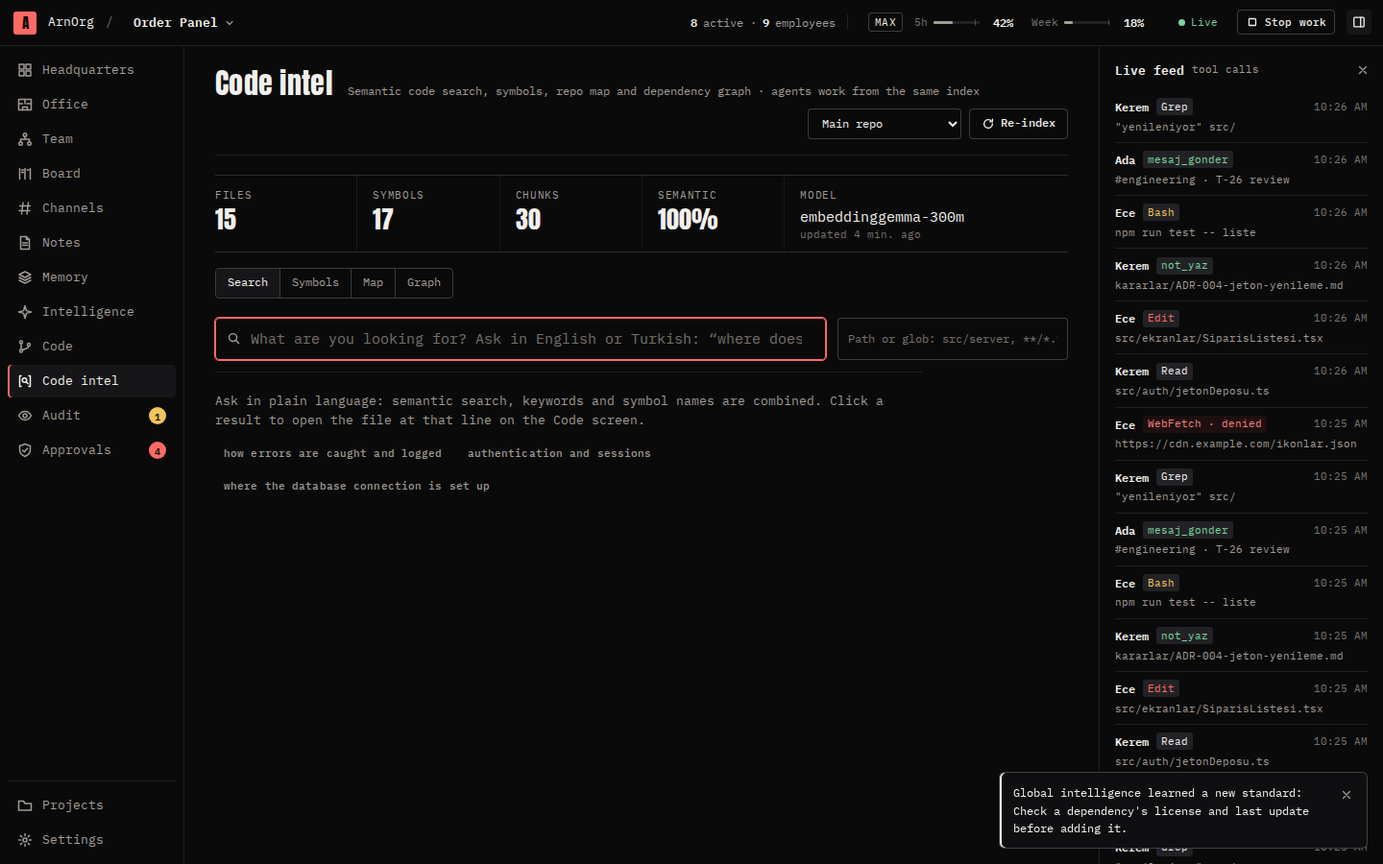
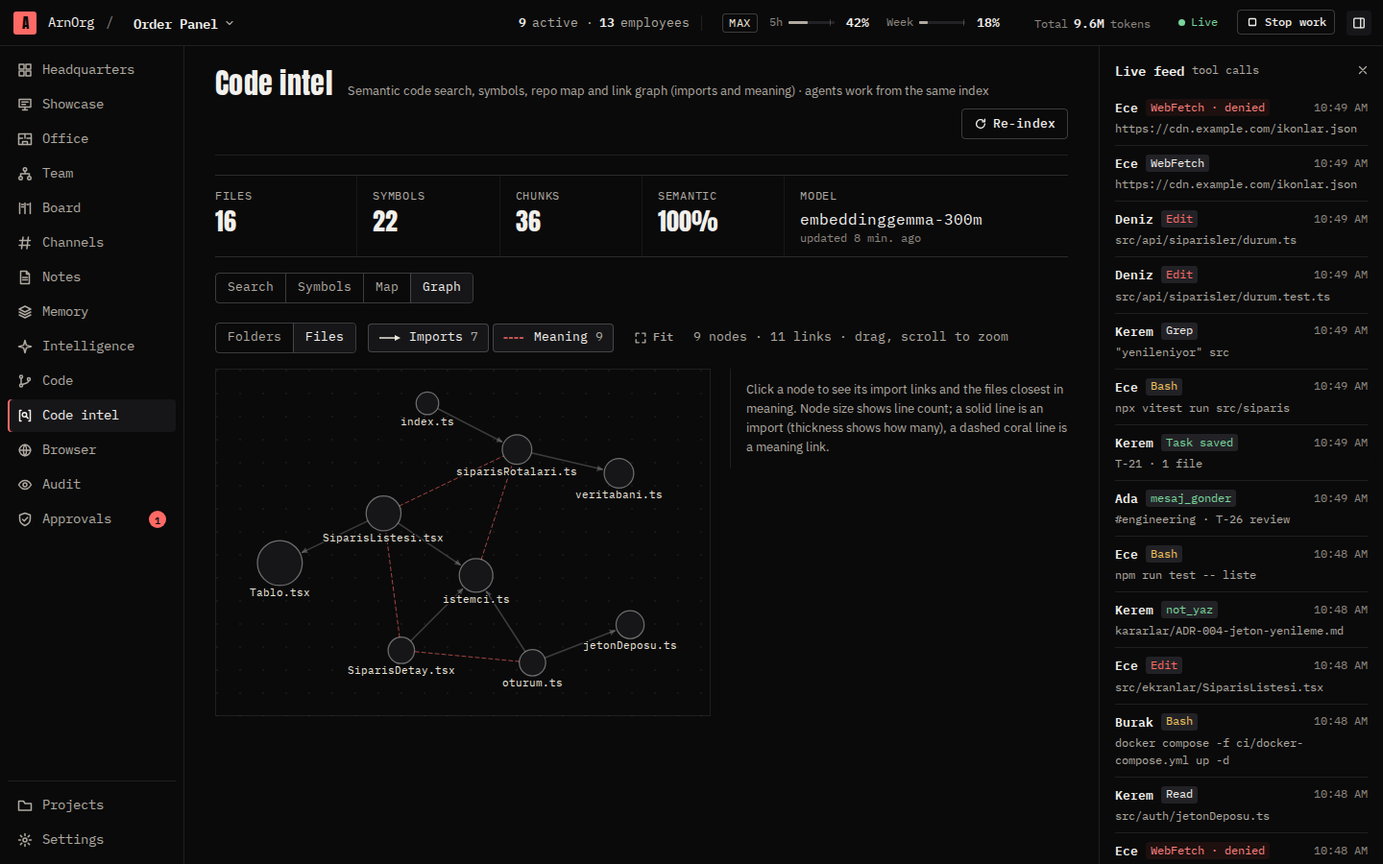
Sürüm 0.0.8
Tek projede ortak çalışma (birleştirme yok), konuşmalarda görsel ve dosya,
seçenekli sorular, skill kütüphanesi, ad ile resim uyumu, Tarayıcı'da proje
adresleri, üst çubukta toplam token, kod zekâsı bağları ve daha canlı bir Ofis.
Sürüm notları docs/surumler/v0.0.8.md. README'lerde yeni maddeler; kalkan
birleştirme ve kişisel çalışma alanı anlatımları çıktı. Yeni ekran görüntüleri
(TR/EN): Ortak çalışma, CEO sohbetinde görsel ve dosya, Tarayıcı ve proje
adresleri, kod zekâsı grafiği.

diff --git a/paketler/ortak/src/index.ts b/paketler/ortak/src/index.ts
@@ -2,7 +2,7 @@
 // Çekirdek (arnorg-server) ile Stüdyo (arayüz) arasında paylaşılan tipler ve sabitler.
 // Bu dosya tek başına durur; başka dosyaya göreli import yapmaz.
 
-export const ARNORG_SURUMU = "0.0.7";
+export const ARNORG_SURUMU = "0.0.8";
 
 // ---------------------------------------------------------------------------
 // Genel

diff --git a/docs/surumler/v0.0.8.md b/docs/surumler/v0.0.8.md
@@ -1,0 +1,153 @@
+ArnOrg runs Claude Code agents like a software company: you open a project and tell the CEO what you want; the CEO agent writes the plan, hires the team, hands out the work, makes the decisions and reports back to you. With this release the whole team works in one project at the same time, and you are never asked about merges again. You can also send images and files in conversations, answer questions by picking options, and every hire comes with skills that fit the role.
+
+[Türkçe aşağıda](#türkçe)
+
+## Download
+
+| System | File | Install |
+|---|---|---|
+| Windows 10/11 · x64 | `ArnOrg-Kurulum-0.0.8-x64.exe` | Recommended. Setup wizard; you can choose the install folder |
+| Windows · x64, managed deployment | `ArnOrg-0.0.8-x64.msi` | For bulk installs (no automatic updates) |
+| Linux · x64, any distribution | `ArnOrg-0.0.8-x86_64.AppImage` | No install: make it executable with `chmod +x` and run it |
+| Debian, Ubuntu · x64 | `ArnOrg-0.0.8-amd64.deb` | `sudo apt install ./ArnOrg-0.0.8-amd64.deb` |
+| Fedora, RHEL, openSUSE · x64 | `ArnOrg-0.0.8-x86_64.rpm` | `sudo dnf install ./ArnOrg-0.0.8-x86_64.rpm` |
+| Linux · arm64 | `ArnOrg-0.0.8-arm64.AppImage`, `ArnOrg-0.0.8-arm64.deb`, `ArnOrg-0.0.8-aarch64.rpm` | Same as x64 |
+
+The `latest*.yml` and `.blockmap` files are for updates; you don't need to download them.
+
+## New in 0.0.8
+
+- **One project, one team, all at once.** The team works in the project itself, on its working branch, at the same time and task by task. There are no personal branches and nothing to merge, so merge approvals are gone:
+  - A file someone is editing stays theirs until their task is saved; nobody else can edit it meanwhile. The refusal says who holds it and for which task, and agents can ask that person directly. Git commands that would touch others' work (staging, stash, reset, switching branches) are refused.
+  - When a task moves to review, or an employee saves their work, ArnOrg commits just that task's files as "T-3 Title" with your git identity.
+  - After every save the project's test command runs in the background in a separate copy. A failing save goes back to its owner with the output, and #general hears when the branch is green again.
+  - The CEO reads each save before marking the task done; a task sent back reaches its owner with the CEO's note.
+  - The CEO sets the team pace, how many people work at once, up to the board's ceiling (now 8 by default). An employee who becomes idle starts their next planned task by themselves, and the CEO hears who has nothing to do. An employee whose turn ends with the task still open is reminded after 3 minutes instead of 20.
+  - **Team** has a Shared work panel: the pace, who is working on what, the files they hold, and the latest saves with their tests, diff and output.
+  - In the Office a save puts a check mark over the person and lights up the server room, and the tests run in the lab; Board cards show **Saved**.
+- **Images and files in conversations.** In the CEO chat and in channels, attach with the paperclip, drag and drop, or paste an image:
+  - Before sending, each attachment shows as a chip with a thumbnail, its size and the upload progress. A message can be attachments alone.
+  - Images appear in the message and open in a viewer (arrow keys, actual size, download). Files show as cards you can open or download.
+  - Agents see the images you send and read your files, and share their own with a new tool: screenshots, test reports, documents.
+  - Files are recognised by their content: programs and archives are refused, SVG and HTML are only downloaded as text. Attachments live in the project's `.arnorg/ekler` folder and are never committed. Up to 10 MB per file and 10 files per message.
+- **Answer by choosing.** When an agent asks you something with options, the options appear under the message: one choice gets radio buttons (a drop-down past six options), several get checkboxes, with an optional note and **Send**. Once answered, your choice shows under the question and locks. An agent's question that ends in a numbered list gets an **Answer by choosing** button that turns the list into checkboxes. Questions that reach Approvals can be answered by picking an option there or in the pop-up. Everything works from the keyboard.
+- **Skills for every hire.** ArnOrg ships a library of 37 Claude Code skills chosen from the aitmpl.com catalogue and their source repositories, all MIT or Apache-2.0:
+  - debugging, testing, code review, API and database design, architecture, accessibility, interface design, security, CI/CD, writing, research and marketing;
+  - when the CEO hires, they give the new employee the skills that fit the role; every role starts with sensible defaults;
+  - you can change them in the hire form and on the employee's page;
+  - skills load only into that employee's sessions; nothing is written to your repository;
+  - skills that need paid services, API keys or their own MCP servers, push or commit on their own, or come with a restrictive license were left out.
+- **Names and faces match.** A new hire gets a character that fits their name. Existing employees whose picture didn't fit their name move once to a fitting character; only the picture changes. The hire form lists the characters that fit the name first.
+- **Project addresses in the Browser.** The Browser's right panel is split in two: your project's running addresses on top, notes below.
+  - Agents keep the list current: they add an address when they start a server and remove it when they stop it. ArnOrg also picks up lines like `Local: http://localhost:5173` from command output.
+  - Local addresses are checked every 20 seconds and show whether they're up; click one to open it.
+  - With no addresses, the section doesn't show.
+- **Total tokens in the top bar.** Next to the usage meters, the tokens spent by all employees on the open project, updated live; the tooltip shows today's.
+- **Code intelligence draws its links.** In many projects the graph showed no links. Now:
+  - imports are found in HTML and template files (script, link, `@import`, include, render; EJS, Handlebars, Nunjucks), through tsconfig/jsconfig paths, package.json imports and Vite/webpack aliases, with Windows paths and UTF-16 files;
+  - **meaning links** join files about the same thing, found from their embeddings and drawn dashed; import links are solid arrows;
+  - the legend switches each kind on and off, hovering a file highlights its neighbours, and the side panel lists the files closest in meaning; small projects open file by file;
+  - agents get a **related files** tool that lists a file's import and meaning neighbours with the reason.
+- **A livelier, calmer Office.** Every movement stands for something that really happened:
+  - an agent who asks a teammate walks to their desk and waits for the answer;
+  - an employee waiting for the CEO's decision waits at the CEO's desk; the CEO says "Approved." or "Declined.", they nod and go back;
+  - idle employees sit at their desks and now and then take a short break: coffee, water or their favourite spot;
+  - typing follows the work, faster when editing than when reading;
+  - a saved task puts a check mark above the person and their monitor, and **Saved** on its Board card;
+  - click a person for a card with their status and current task, **Follow**, **Message** and **Details**.
+- **Board.** Filter by person or role; the filter is remembered per project. Cards slide between columns, counters count up, lists and pop-ups ease in and out, and a skeleton shows while tasks load. Motion is short and turns off with reduced motion.
+- **Shortcuts.** Press `?` for the Office and Board shortcuts.
+
+## Requirements
+
+- **A Claude subscription** (Pro, Max or Team). ArnOrg only works with a subscription; it doesn't use API keys.
+- The first-run assistant takes care of the Claude Code sign-in, git and the GitHub CLI. On Windows, Git for Windows is recommended.
+
+## Good to know
+
+- **After updating,** each project's old personal workspaces and branches are brought into the shared project once. Branches that merge cleanly go into the working branch and clean workspaces are removed. A workspace with uncommitted changes, a branch that conflicts, or one holding git-ignored files that can't be rebuilt (such as `.env.local`) is kept as it is and listed in #general and on **Team**; no work is deleted. Pending merge approvals are closed.
+- If you hadn't changed it, **Settings → Work rules → Agents working at once** goes from 3 to 8.
+- ArnOrg starts planned work by itself only in projects that are active. Projects you haven't worked on for a while stay asleep after the update.
+- **Stop work**, and stopping an employee, hold until you write to the team or start someone again; ArnOrg doesn't restart their work by itself.
+- **Updating from 0.0.6 or 0.0.7** happens by itself. **From 0.0.5,** download and install this version once from the [Releases](https://github.com/fyildirim-debug/ArnOrg/releases) page; your projects, settings and sign-ins are kept.
+- The installers are unsigned. On the Windows SmartScreen prompt choose **More info → Run anyway**.
+- The AppImage needs FUSE 2 (Ubuntu 24.04: `sudo apt install libfuse2t64`).
+- Data: `%APPDATA%\ArnOrg` on Windows, `~/.config/ArnOrg` on Linux. Uninstalling doesn't remove user data.
+
+---
+
+## Türkçe
+
+ArnOrg, Claude Code ajanlarını bir yazılım şirketi gibi çalıştırır: projeyi siz açar, ne istediğinizi CEO'ya anlatırsınız; CEO ajanı planı yazar, ekibi işe alır, işi dağıtır, kararları verir ve size rapor verir. Bu sürümle bütün ekip tek projede, aynı anda çalışır; birleştirme size bir daha hiç sorulmaz. Konuşmalarda görsel ve dosya gönderebilir, soruları seçerek yanıtlayabilirsiniz; her işe alım rolüne uyan skillerle gelir.
+
+### İndirme
+
+| Sistem | Dosya | Kurulum |
+|---|---|---|
+| Windows 10/11 · x64 | `ArnOrg-Kurulum-0.0.8-x64.exe` | Önerilen. Kurulum sihirbazı; kurulum dizini seçilebilir |
+| Windows · x64, kurumsal dağıtım | `ArnOrg-0.0.8-x64.msi` | Toplu kurulum için (otomatik güncelleme yok) |
+| Linux · x64, her dağıtım | `ArnOrg-0.0.8-x86_64.AppImage` | Kurulumsuz: `chmod +x` ile çalıştırılabilir yapıp açın |
+| Debian, Ubuntu · x64 | `ArnOrg-0.0.8-amd64.deb` | `sudo apt install ./ArnOrg-0.0.8-amd64.deb` |
+| Fedora, RHEL, openSUSE · x64 | `ArnOrg-0.0.8-x86_64.rpm` | `sudo dnf install ./ArnOrg-0.0.8-x86_64.rpm` |
+| Linux · arm64 | `ArnOrg-0.0.8-arm64.AppImage`, `ArnOrg-0.0.8-arm64.deb`, `ArnOrg-0.0.8-aarch64.rpm` | x64 ile aynı |
+
+`latest*.yml` ve `.blockmap` dosyaları güncelleme içindir, indirmeniz gerekmez.
+
+### 0.0.8'de yeni
+
+- **Tek proje, tek ekip, hep birlikte.** Ekip projenin kendisinde, çalışma dalında, aynı anda ve görev görev çalışır. Kişisel dal yok, birleştirilecek bir şey yok; bu yüzden birleştirme onayı da yok:
+  - Birinin düzenlediği dosya, görevi kaydedilene dek onundur; bu sürede başkası düzenleyemez. Ret mesajı dosyanın kimde ve hangi görevde olduğunu söyler, ajanlar o kişiye doğrudan sorabilir. Başkasının işine dokunacak git komutları (aşamaya alma, stash, reset, dal değiştirme) reddedilir.
+  - Görev incelemeye geçince ya da çalışan işini kaydedince ArnOrg yalnız o görevin dosyalarını sizin git kimliğinizle "T-3 Başlık" olarak commit'ler.
+  - Her kayıttan sonra projenin test komutu ayrı bir kopyada arka planda koşar. Geçmeyen kayıt çıktısıyla sahibine döner; dal yeniden yeşillenince #genel'e duyurulur.
+  - CEO görevi tamamlamadan önce kaydını okur; geri gönderdiği görev sahibine CEO'nun notuyla gider.
+  - Ekip temposunu, yani aynı anda kaç kişinin çalışacağını kurulun üst sınırı içinde (artık varsayılan 8) CEO belirler. Boşa çıkan çalışan sıradaki planlı işine kendiliğinden başlar; işi olmayanlar CEO'ya söylenir. Turu bitip görevi açık kalan çalışana 20 değil 3 dakikada hatırlatılır.
+  - **Ekip**'te Ortak çalışma paneli: tempo, kimin ne üzerinde çalıştığı, tuttuğu dosyalar, son kayıtlar ve testleri, farkı ve çıktısı.
+  - Ofis'te kayıt anında kişinin üstünde onay işareti çıkar, sunucu odası yanar, testler laboratuvarda koşar; Pano kartında **Kaydedildi** görünür.
+- **Konuşmalarda görsel ve dosya.** CEO sohbetinde ve kanallarda ataç düğmesiyle, sürükle-bırakla ya da görsel yapıştırarak ekleyin:
+  - Göndermeden önce her ek küçük resmi, boyutu ve yükleme ilerlemesiyle bir çip olarak görünür. Mesaj yalnız eklerden oluşabilir.
+  - Görseller mesajın içinde görünür ve bir görüntüleyicide açılır (ok tuşları, gerçek boyut, indirme). Dosyalar açılıp indirilebilen kartlardır.
+  - Ajanlar gönderdiğiniz görselleri görür, dosyaları okur; kendileri de yeni bir araçla paylaşır: ekran görüntüleri, test raporları, belgeler.
+  - Dosyalar içeriğinden tanınır: programlar ve arşivler reddedilir, SVG ve HTML yalnız metin olarak indirilir. Ekler projenin `.arnorg/ekler` klasöründe durur, hiç commit'lenmez. Dosya başına 10 MB, mesaj başına 10 dosya.
+- **Seçerek yanıtlayın.** Bir ajan size seçenekli bir soru sorduğunda seçenekler mesajın altında çıkar: tek seçimde seçim düğmeleri (altıdan çok seçenekte açılır liste), çoklu seçimde işaret kutuları, isteğe bağlı bir not ve **Gönder**. Yanıtladığınızda seçiminiz sorunun altında görünür ve kilitlenir. Numaralı bir listeyle biten soruların yanında **Seçerek yanıtla** düğmesi çıkar; liste işaret kutularına dönüşür. Onaylar'a düşen soruları da orada ya da açılır pencerede bir seçenek seçerek yanıtlayabilirsiniz. Hepsi klavyeyle de kullanılır.
+- **Her işe alıma skill.** ArnOrg, aitmpl.com kataloğundan ve kaynak depolarından seçilmiş 37 Claude Code skilliyle gelir; hepsi MIT ya da Apache-2.0 lisanslıdır:
+  - hata ayıklama, test, kod incelemesi, API ve veritabanı tasarımı, mimari, erişilebilirlik, arayüz tasarımı, güvenlik, CI/CD, yazım, araştırma ve pazarlama;
+  - CEO işe alırken yeni çalışana rolüne uyan skilleri verir; her rol makul varsayılanlarla başlar;
+  - skilleri işe alım formunda ve çalışanın sayfasında değiştirebilirsiniz;
+  - skiller yalnız o çalışanın oturumlarına yüklenir; deponuza hiçbir şey yazılmaz;
+  - ücretli servis, API anahtarı ya da kendi MCP sunucusunu isteyen, kendi başına push ya da commit eden veya kısıtlayıcı lisansla gelen skiller alınmadı.
+- **Ad ile resim uyuşur.** Yeni çalışan adına uyan bir karakter alır. Adıyla resmi uyuşmayan çalışanlar bir kez uygun bir karaktere geçer; yalnız resim değişir. İşe alım formu ada uyan karakterleri önce gösterir.
+- **Tarayıcı'da proje adresleri.** Tarayıcı'nın sağ paneli ikiye bölündü: üstte projenin çalışan adresleri, altta notlar.
+  - Listeyi ajanlar güncel tutar: bir sunucu başlatınca adresini ekler, durdurunca kaldırır. ArnOrg da komut çıktısındaki `Local: http://localhost:5173` gibi satırları kendisi yakalar.
+  - Yerel adresler 20 saniyede bir yoklanır ve açık olup olmadıkları görünür; tıklayınca açılır.
+  - Adres yoksa bölüm hiç görünmez.
+- **Üst çubukta toplam token.** Kullanım ölçerlerinin yanında, açık projede bütün çalışanların harcadığı token canlı görünür; ipucunda bugünkü yazar.
+- **Kod zekâsı bağlarını çiziyor.** Birçok projede grafikte hiç bağ çıkmıyordu. Artık:
+  - içe aktarmalar HTML ve şablon dosyalarında (script, link, `@import`, include, render; EJS, Handlebars, Nunjucks), tsconfig/jsconfig paths, package.json imports ve Vite/webpack takma adlarıyla, Windows yolları ve UTF-16 dosyalarla birlikte bulunur;
+  - **anlam bağları** aynı konudaki dosyaları gömmelerinden bulup kesik çizgiyle birleştirir; içe aktarma bağları düz oklardır;
+  - açıklama her bağ türünü açıp kapatır, bir dosyanın üzerine gelince komşuları öne çıkar, yan panel anlamca en yakın dosyaları listeler; küçük projeler dosya dosya açılır;
+  - ajanlara **ilgili dosyalar** aracı geldi: bir dosyanın içe aktarma ve anlam komşularını nedeniyle listeler.
+- **Daha canlı, daha sakin bir Ofis.** Her hareket gerçekten olan bir şeyi gösterir:
+  - bir ekip arkadaşına soru soran ajan onun masasına yürür ve yanıtı bekler;
+  - CEO'nun kararını bekleyen çalışan CEO'nun masasında bekler; CEO "Onayladım." ya da "Reddettim." der, çalışan başını sallayıp döner;
+  - boştaki çalışan masasında oturur, arada kısa bir mola verir: kahve, su ya da sevdiği yer;
+  - yazma temposu işi izler: düzenlerken okurken olduğundan hızlı yazar;
+  - kaydedilen görev kişinin ve monitörünün üstünde bir onay işareti, Pano kartında **Kaydedildi** bırakır;
+  - bir kişiye tıklayınca durumunu ve şu anki işini gösteren, **Takip et**, **Mesaj** ve **Ayrıntılar** içeren bir kart açılır.
+- **Pano.** Kişiye ya da role göre süzün; süzgeç proje başına hatırlanır. Kartlar sütunlar arasında kayar, sayaçlar sayarak değişir, listeler ve açılır pencereler yumuşakça girip çıkar, görevler yüklenirken iskelet görünür. Hareketler kısadır ve hareket azaltma açıksa kapanır.
+- **Kısayollar.** Ofis ve Pano kısayolları için `?` tuşuna basın.
+
+### Gerekenler
+
+- **Claude aboneliği** (Pro, Max ya da Team). ArnOrg yalnız abonelikle çalışır; API anahtarı kullanmaz.
+- Claude Code girişini, git'i ve GitHub CLI'ı ilk açılış asistanı halleder. Windows'ta Git for Windows önerilir.
+
+### Bilinmesi gerekenler
+
+- **Güncellemeden sonra** her projenin eski kişisel çalışma alanları ve dalları bir kez ortak projeye alınır. Temiz birleşen dallar çalışma dalına girer, temiz çalışma alanları kaldırılır. Commit'lenmemiş değişikliği olan, çakışan ya da yeniden üretilemeyen ve git'in yok saydığı dosyalar (ör. `.env.local`) içeren alan olduğu gibi korunur, #genel'de ve **Ekip**'te listelenir; hiçbir iş silinmez. Bekleyen birleştirme onayları kapanır.
+- Değiştirmediyseniz **Ayarlar → Çalışma düzeni → Aynı anda çalışan ajan** 3'ten 8'e çıkar.
+- ArnOrg planlı işi kendiliğinden yalnız etkin projelerde başlatır. Bir süredir çalışmadığınız projeler güncellemeden sonra uykuda kalır.
+- **Mesaiyi durdur** ve bir çalışanı durdurmak, ekibe yeniden yazana ya da birini başlatana dek geçerlidir; ArnOrg işlerini kendiliğinden yeniden başlatmaz.
+- **0.0.6 ya da 0.0.7'den güncelleme** kendiliğinden olur. **0.0.5'ten** bu sürümü [Sürümler](https://github.com/fyildirim-debug/ArnOrg/releases) sayfasından bir kez indirip kurun; projeleriniz, ayarlarınız ve girişleriniz korunur.
+- Kurulum dosyaları imzasızdır. Windows SmartScreen uyarısında **Ek bilgi → Yine de çalıştır** seçin.
+- AppImage için FUSE 2 gerekir (Ubuntu 24.04: `sudo apt install libfuse2t64`).
+- Veriler: Windows'ta `%APPDATA%\ArnOrg`, Linux'ta `~/.config/ArnOrg`. Kaldırma kullanıcı verisini silmez.

diff --git a/README.tr.md b/README.tr.md
@@ -2,7 +2,7 @@
 
 [English](README.md) · **Türkçe**
 
-Claude Code ajanlarından kurulan bir yazılım şirketi. Projeyi siz açar, ne istediğinizi CEO'ya anlatırsınız; CEO ajanı planı yazar, ekibi işe alır, işi dağıtır, kararları verir ve size rapor verir. Her ajanın her araç çağrısı ArnOrg'un denetiminden geçer.
+Claude Code ajanlarından kurulan bir yazılım şirketi. Projeyi siz açar, ne istediğinizi CEO'ya anlatırsınız; CEO ajanı planı yazar, ekibi işe alır, işi dağıtır, kararları verir ve size rapor verir. Bütün ekip projenin kendisinde, aynı anda ve görev görev çalışır. Her ajanın her araç çağrısı ArnOrg'un denetiminden geçer.
 
 ![Karargâh](docs/gorseller/tr/karargah.png)
 
@@ -10,7 +10,7 @@ Claude Code ajanlarından kurulan bir yazılım şirketi. Projeyi siz açar, ne 
 
 - **Windows ve Linux'ta masaüstü uygulaması**, ayrıca sunucu modu.
 - **Açık kaynak**, [MIT lisansıyla](LICENSE). Masaüstü uygulaması kendini bu deponun sürümlerinden günceller.
-- **Claude aboneliğinizle çalışır** (Pro, Max ya da Team). Ajanlar makinedeki Claude Code girişini kullanır; ArnOrg onlara API anahtarı vermez. Üst çubukta 5 saatlik ve haftalık pencere kullanımı görünür. Ajanlar kurulun belirlediği yüzdede durur, pencere açılınca kaldıkları yerden sürer.
+- **Claude aboneliğinizle çalışır** (Pro, Max ya da Team). Ajanlar makinedeki Claude Code girişini kullanır; ArnOrg onlara API anahtarı vermez. Üst çubukta 5 saatlik ve haftalık pencere kullanımı ile açık projede ekibin harcadığı token görünür. Ajanlar kurulun belirlediği yüzdede durur, pencere açılınca kaldıkları yerden sürer.
 - **Yönlendirmeli ilk açılış.** Kurulum asistanı sizi adım adım götürür:
   - Claude Code kurulumu ve girişi (tarayıcıdan giriş; istenirse kodu yapıştırma);
   - git ve git kimliğiniz;
@@ -40,19 +40,27 @@ Claude Code ajanlarından kurulan bir yazılım şirketi. Projeyi siz açar, ne 
   - Her ajan, rolü ve yetkisi kapsamındaki kuralları alır.
   - Her kuralı görebilir, düzenleyebilir ya da kapatabilirsiniz.
 - **Karargâh.** #yonetim'de CEO ile bire bir sohbet; yazıyor göstergesi ve tıklanabilir bağlantılarla canlı kanallar. #genel, işin başladığını, incelemeye girdiğini ve bittiğini duyurur.
-- **CEO karar verir, siz sonucu görürsünüz.** Varsayılan olarak şirket tam otonom çalışır. İzinler, birleştirmeler, işe alımlar ve öteki onaylar CEO'dan geçer; her karar gerekçesiyle listelenir. CEO size yalnız bir insanın yapması gerekenler için gelir: giriş bilgileri, ödemeler, dış hesaplar. Bekleyen bir onaya isterseniz kendiniz karar verirsiniz ya da projeyi ayarlarından **Kurul karar verir** kipine döndürürsünüz.
+- **CEO karar verir, siz sonucu görürsünüz.** Varsayılan olarak şirket tam otonom çalışır. İzinler, işe alımlar ve öteki onaylar CEO'dan geçer; her karar gerekçesiyle listelenir. CEO size yalnız bir insanın yapması gerekenler için gelir: giriş bilgileri, ödemeler, dış hesaplar. Bekleyen bir onaya isterseniz kendiniz karar verirsiniz ya da projeyi ayarlarından **Kurul karar verir** kipine döndürürsünüz.
+- **Tek proje, tek ekip, hep birlikte.** Herkes projenin kendisinde, çalışma dalında, aynı anda ve görev görev çalışır. Kişisel dal yok, birleştirilecek bir şey yok; bu yüzden birleştirme hiç sorulmaz:
+  - birinin düzenlediği dosya görevi kaydedilene dek onundur; bu sürede başkası düzenleyemez, başkasının işine dokunacak git komutları reddedilir;
+  - görev incelemeye geçince ArnOrg yalnız o görevin dosyalarını sizin git kimliğinizle "T-3 Başlık" olarak commit'ler; testler arka planda koşar, geçmeyen kayıt çıktısıyla sahibine döner;
+  - aynı anda kaç kişinin çalışacağına kurulun üst sınırı içinde (varsayılan 8) CEO karar verir; boşa çıkan çalışan sıradaki işine kendiliğinden başlar, işi olmayanlar CEO'ya söylenir;
+  - **Ekip** kimin ne üzerinde çalıştığını, tuttuğu dosyaları, tempoyu ve son kayıtları test sonuçlarıyla gösterir.
+- **Konuşmalarda görsel ve dosya.** CEO sohbetinde ve kanallarda görsel ve dosya ekleyin: ataç düğmesi, sürükle-bırak ya da yapıştır. Ajanlar görselleri görür, dosyaları okur ve kendileri de paylaşır (ekran görüntüleri, raporlar, belgeler). Görseller bir görüntüleyicide açılır; dosyalar açılıp indirilebilen kartlar olarak görünür.
+- **Seçerek yanıtlayın.** Bir ajan size seçenekli bir soru sorduğunda seçenekleri mesajın altında işaretlersiniz: tek ya da çoklu seçim, isteğe bağlı bir notla.
+- **Her işe alıma skill.** aitmpl.com kataloğundan seçilmiş 37 Claude Code skilli (MIT ya da Apache-2.0): hata ayıklama, test, kod incelemesi, API ve veritabanı tasarımı, mimari, erişilebilirlik, arayüz tasarımı, güvenlik, CI/CD, yazım, araştırma ve pazarlama. CEO her yeni çalışana rolüne uyan skilleri verir; işe alım formunda ve çalışanın sayfasında değiştirebilirsiniz.
 - **Onaylar.**
-  - Onay türleri: işe alım, işten çıkarma, main'e birleştirme, ana yasa değişikliği, araç izni ve teslim.
+  - Onay türleri: işe alım, işten çıkarma, ana yasa değişikliği, araç izni, karar (sorular ve token tavanları) ve teslim.
   - Her onay gerekçesini, kimin karar verdiğini ve onaylanırsa ne olacağını gösterir.
   - Kurul karar verirken **Otomatik onay** kutusu, seçtiğiniz türlerle sınırlı olarak onayı sizin yerinize verir.
 - **Tanıtım.** Projenin README.md'si menünün ikinci sırasında kendi sayfasında. Tanıtım uzmanı onu ekibin gerçekten yaptıklarından yazar ve her teslimden sonra günceller; birleşene kadar taslak görünür. **Güncellenmesini iste** yenilenmesini ister.
-- **Girmeden önce test.** Onaylanan birleştirmeler proje başına bir kuyruktan ve kalite kapısından geçer: dal ayrı bir çalışma alanında birleştirilir ve projenin test komutu koşar. Yalnız testleri geçen iş dalınıza girer; onay kartı test çıktısını ve farkı gösterir.
+- **Girerken test.** Her görev kaydından sonra projenin test komutu ayrı bir kopyada koşar. Geçmeyen kayıt çıktısıyla sahibine döner; dal yeniden yeşillenince #genel'e duyurulur.
 - **Sınırlarınız içinde çalışma.** Aynı anda çalışan ajan sayısına tavan, görev başına token tavanı; ArnOrg yeniden açılınca ajanlar kaldıkları yerden sürer.
 - **Araştıran ajanlar.** SearXNG gibi yerleşik bir meta arama Bing, DuckDuckGo, Brave, Wikipedia, Stack Overflow, GitHub, npm, MDN, Hacker News, arXiv ve diğerlerini aynı anda sorgular. r.jina.ai gibi yerleşik bir okuyucu web sayfalarını, PDF'leri ve JSON'u temiz Markdown'a çevirir. Ajanlar bulduklarını kaynaklı araştırma notu olarak kaydeder. Her çalışanın yetenekleri açılıp kapanır; Araştırmacı rolü işe alınmaya hazırdır.
 - **İstediğinizde brifing.** **Brifing ver**, CEO'ya ne yapıldığını, ne olduğunu ve sırada ne olduğunu görev kodlarıyla yazdırır. Her gün seçtiğiniz saatte de brifing gelir.
 - **Kendi kanallarınız.** Kanal kurun, çalışanları ekleyin ve siz **Durdur** diyene kadar sırayla, serbestçe konuşsunlar.
-- **Olmayan yeri gösterin.** Masaüstü uygulamasının tarayıcısında projenizin sayfasından bir öğe seçip not bırakın; not ekran görüntüsünü saklar. **Hepsini yaptır** bütün notları CEO'ya gönderir, CEO onları göreve çevirir.
-- **Ofis canlanıyor.** Kata bir kütüphane, bir laboratuvar ve bir stüdyo eklendi: ajanlar araştırmak için kütüphaneye, test koşmak için laboratuvara, işini sunmak için stüdyoya yürür. Konuşma balonları, kutlamalar, canlı yayın kamerası ve olay şeridiyle izlemesi keyifli.
+- **Olmayan yeri gösterin.** Masaüstü uygulamasının tarayıcısında projenizin sayfasından bir öğe seçip not bırakın; not ekran görüntüsünü saklar. **Hepsini yaptır** bütün notları CEO'ya gönderir, CEO onları göreve çevirir. Tarayıcı projenin çalışan adreslerini de listeler; listeyi ajanlar güncel tutar, tıklayınca açılır.
+- **Ofis canlanıyor.** Kata bir kütüphane, bir laboratuvar ve bir stüdyo eklendi: ajanlar araştırmak için kütüphaneye, test koşmak için laboratuvara, işini sunmak için stüdyoya yürür. Bir ekip arkadaşına sormak için masasına gider, karar için CEO'nun masasında bekler, arada kısa mola verir. Bir kişiye tıklayınca ne yaptığını gösteren kart açılır. Konuşma balonları, kutlamalar, canlı yayın kamerası ve olay şeridiyle izlemesi keyifli.
 - **Model sürümleri ve Fable.** Modeller Claude Code'dan okunan sürümleriyle görünür (Fable 5.1, Opus 5.5, Sonnet 5.5, Haiku 4.5); yeni CEO'lar Fable kullanır.
 - **Kendini günceller:** bu deponun sürümlerinden.
 - **Önemli anlar her ekranda.** Hangi ekranda olursanız olun açılır pencere gelir. Pencere arkadaysa masaüstü bildirimi de gelir ve görev çubuğu yanıp söner.
@@ -60,11 +68,10 @@ Claude Code ajanlarından kurulan bir yazılım şirketi. Projeyi siz açar, ne 
 - **Teslim.** Proje bitince CEO test adımları, çalıştırma komutu ve adresle teslim eder. Geri bildiriminiz CEO'ya iş olarak döner.
 - **0.0.1'den gelenler:**
   - `.arnorg/` altında proje hafızası;
-  - her ajana ayrı git çalışma alanı; main'e yalnız onaylanıp kalite kapısını geçen iş girer;
   - kurallar, araya girme ve kesmeyle canlı denetim;
   - Ofis: şirketin canlı 2D hâli;
   - yerleşik VS Code tezgâhı;
-  - makinede çalışan kod zekâsı;
+  - makinede çalışan kod zekâsı; içe aktarmaların ve anlamca birbirine yakın dosyaların grafiğiyle;
   - tıkanma koruması ve dönem raporu.
 
   Ajan commit'leri sizin git kimliğinizle atılır; Claude imzası eklenmez.
@@ -76,12 +83,15 @@ Claude Code ajanlarından kurulan bir yazılım şirketi. Projeyi siz açar, ne 
 |---|---|
 | İlk açılış | ![İlk açılış](docs/gorseller/tr/ilk-kurulum.png) |
 | Ofis | ![Ofis](docs/gorseller/tr/ofis.png) |
+| Ortak çalışma | ![Ortak çalışma](docs/gorseller/tr/ortak-calisma.png) |
+| CEO sohbetinde görsel ve dosya | ![Görsel ve dosya](docs/gorseller/tr/ekler.png) |
 | Kanallar | ![Kanallar](docs/gorseller/tr/kanallar.png) |
 | Tanıtım | ![Tanıtım](docs/gorseller/tr/tanitim.png) |
 | Onaylar | ![Onaylar](docs/gorseller/tr/onaylar.png) |
 | Zekâ | ![Zekâ](docs/gorseller/tr/zeka.png) |
 | GitHub'dan aç | ![GitHub'dan aç](docs/gorseller/tr/github.png) |
 | Ekip ve ajan paneli | ![Ekip](docs/gorseller/tr/ekip.png) |
+| Tarayıcı ve proje adresleri | ![Tarayıcı](docs/gorseller/tr/tarayici.png) |
 | Kod zekâsı | ![Kod zekâsı](docs/gorseller/tr/kod-zekasi.png) |
 | Kod (VS Code tezgâhı) | ![Kod](docs/gorseller/tr/kod.png) |
 
@@ -121,13 +131,13 @@ Sürüm paketleri GitHub Actions'ta Windows ve Linux için üretilir ve GitHub s
 Sürüm çıkarma (sürüm notları [`docs/surumler/`](docs/surumler) altında):
 
 ```bash
-npm run surum -- 0.0.7                 # kök ve tüm paketler, kilit dosyası, ARNORG_SURUMU
-# docs/surumler/v0.0.7.md dosyasına sürüm notlarını yazın, commit edin
-git tag -a v0.0.7 -m "ArnOrg 0.0.7"
-git push origin main v0.0.7            # surum.yml paketleri üretir ve sürümü yayınlar
+npm run surum -- 0.0.8                 # kök ve tüm paketler, kilit dosyası, ARNORG_SURUMU
+# docs/surumler/v0.0.8.md dosyasına sürüm notlarını yazın, commit edin
+git tag -a v0.0.8 -m "ArnOrg 0.0.8"
+git push origin main v0.0.8            # surum.yml paketleri üretir ve sürümü yayınlar
 ```
 
-Etiket göndermek yerine GitHub'da **Actions → Sürüm → Run workflow** ile `surum` alanına `v0.0.7` yazılabilir; etiket main'in son commit'ine konur. Etiket paket sürümleriyle uyuşmazsa ya da sürüm notları yoksa iş akışı paketlemeye başlamadan durur.
+Etiket göndermek yerine GitHub'da **Actions → Sürüm → Run workflow** ile `surum` alanına `v0.0.8` yazılabilir; etiket main'in son commit'ine konur. Etiket paket sürümleriyle uyuşmazsa ya da sürüm notları yoksa iş akışı paketlemeye başlamadan durur.
 
 İş akışı sürümü bu depoda yayınlar; kurulu uygulamalar da güncellemeyi burada arar. `WIN_IMZA` Actions değişkeni ve imza sağlayıcısının sırları tanımlıysa Windows paketleri imzalanır (SSL.com eSigner, DigiCert KeyLocker ya da başka bir araç); değilse imzasız yayınlanır.
 

diff --git a/README.md b/README.md
@@ -2,7 +2,7 @@
 
 **English** · [Türkçe](README.tr.md)
 
-A software company built from Claude Code agents. You open a project and tell the CEO what you want; the CEO agent writes the plan, hires the team, hands out the work, makes the decisions and reports back to you. Every tool call of every agent passes through ArnOrg's gate.
+A software company built from Claude Code agents. You open a project and tell the CEO what you want; the CEO agent writes the plan, hires the team, hands out the work, makes the decisions and reports back to you. The whole team works in the project itself, at the same time, task by task. Every tool call of every agent passes through ArnOrg's gate.
 
 ![Headquarters](docs/gorseller/en/karargah.png)
 
@@ -10,7 +10,7 @@ A software company built from Claude Code agents. You open a project and tell th
 
 - **Desktop app for Windows and Linux**, plus a server mode.
 - **Open source** under the [MIT license](LICENSE). The desktop app updates itself from this repository's releases.
-- **Runs on your Claude subscription** (Pro, Max or Team). Agents use the Claude Code sign-in on your machine; ArnOrg never hands them an API key. The top bar shows the 5-hour and weekly window usage. Agents pause at the threshold the board sets and pick up where they left off when the window reopens.
+- **Runs on your Claude subscription** (Pro, Max or Team). Agents use the Claude Code sign-in on your machine; ArnOrg never hands them an API key. The top bar shows the 5-hour and weekly window usage and the tokens the open project's team has spent. Agents pause at the threshold the board sets and pick up where they left off when the window reopens.
 - **Guided first run.** A setup assistant walks you through:
   - installing and signing in to Claude Code (browser sign-in, paste the code back if asked);
   - git and your git identity;
@@ -40,19 +40,27 @@ A software company built from Claude Code agents. You open a project and tell th
   - Each agent receives the rules within its role and authority.
   - You can review, edit or switch off any rule.
 - **Headquarters.** A one-to-one chat with the CEO in #ceo and live channels with typing indicators and clickable links. #general announces when work starts, goes to review and finishes.
-- **The CEO decides, you see the results.** By default the company runs fully autonomously. Permissions, merges, hires and the other approvals go through the CEO, and every decision is listed with its reason. The CEO asks you only for what a person has to do: sign-ins, payments, external accounts. You can decide any pending approval yourself, or switch a project back to **The board decides** in its settings.
+- **The CEO decides, you see the results.** By default the company runs fully autonomously. Permissions, hires and the other approvals go through the CEO, and every decision is listed with its reason. The CEO asks you only for what a person has to do: sign-ins, payments, external accounts. You can decide any pending approval yourself, or switch a project back to **The board decides** in its settings.
+- **One project, one team, all at once.** Everyone works in the project itself, on its working branch, at the same time and task by task. There are no personal branches and nothing to merge, so no merge is ever asked about:
+  - a file someone is editing stays theirs until their task is saved; nobody else can edit it meanwhile, and git commands that would touch others' work are refused;
+  - when a task goes to review, ArnOrg commits just that task's files as "T-3 Title" with your git identity; the tests run in the background, and a failing save goes back to its owner with the output;
+  - the CEO decides how many people work at once, up to the board's limit (8 by default); an employee who becomes idle starts their next task by themselves, and the CEO hears who has nothing to do;
+  - **Team** shows who is working on what, the files they hold, the pace and the latest saves with their test results.
+- **Images and files in conversations.** Attach images and files in the CEO chat and in channels: the paperclip, drag and drop, or paste. Agents see the images and read the files, and share their own (screenshots, reports, documents). Images open in a viewer; files show as cards you can open or download.
+- **Answer by choosing.** When an agent asks you something with options, pick them under the message: one choice or several, with an optional note.
+- **Skills for every hire.** A library of 37 Claude Code skills, chosen from the aitmpl.com catalogue (MIT or Apache-2.0): debugging, testing, code review, API and database design, architecture, accessibility, interface design, security, CI/CD, writing, research and marketing. The CEO gives each new employee the skills that fit the role; you can change them in the hire form and on the employee's page.
 - **Approvals.**
-  - Approval types: hiring, dismissal, merges to main, constitution changes, tool requests and deliveries.
+  - Approval types: hiring, dismissal, constitution changes, tool requests, decisions (questions and token ceilings) and deliveries.
   - Each one shows its reasoning, who decided and what happens if it's approved.
   - When the board decides, an **Auto-approve** checkbox approves for you, limited to the types you choose.
 - **Showcase.** The project's README.md on its own page, second in the menu. A product marketer writes it from what the team has actually built and updates it after each delivery; a draft shows until it's merged. **Request an update** asks for a refresh.
-- **Tested before it lands.** Approved merges go through a per-project queue and a quality gate: the branch is merged in a separate workspace and the project's test command runs. Only work that passes reaches your branch; the approval card shows the test output and the diff.
+- **Tested as it lands.** After every task save, the project's test command runs in a separate copy. A failing save goes back to its owner with the output, and #general hears when the branch is green again.
 - **Work within your limits.** A cap on how many agents work at once, a token ceiling per task, and agents that pick up where they left off when ArnOrg restarts.
 - **Agents that research.** A built-in meta search, like SearXNG, queries Bing, DuckDuckGo, Brave, Wikipedia, Stack Overflow, GitHub, npm, MDN, Hacker News, arXiv and more at once. A built-in page reader, like r.jina.ai, turns web pages, PDFs and JSON into clean Markdown. Agents save what they find as research notes with sources. Each employee's abilities can be switched on and off, and a Researcher role is ready to hire.
 - **Briefings on demand.** **Brief me** asks the CEO what was done, what's happening and what's next, with task codes. A daily briefing arrives at the time you choose.
 - **Your own channels.** Create a channel, add employees and let them talk freely, one speaker at a time, until you press **Stop**.
-- **Point at what's wrong.** In the desktop app's browser, pick an element on your project's page and leave a note; it keeps a screenshot. **Get it all done** sends every note to the CEO, who turns them into tasks.
-- **The Office comes alive.** A library, a lab and a studio join the floor: agents walk to the library to research, to the lab to run tests and to the studio to present their work. Speech bubbles, celebrations, a live camera and an event ticker make it something to watch.
+- **Point at what's wrong.** In the desktop app's browser, pick an element on your project's page and leave a note; it keeps a screenshot. **Get it all done** sends every note to the CEO, who turns them into tasks. The Browser also lists your project's running addresses, which the agents keep current; click one to open it.
+- **The Office comes alive.** A library, a lab and a studio join the floor: agents walk to the library to research, to the lab to run tests and to the studio to present their work. They walk over to ask a teammate, wait at the CEO's desk for a decision and take short breaks. Click a person for a card with what they're doing. Speech bubbles, celebrations, a live camera and an event ticker make it something to watch.
 - **Model versions, and Fable.** Models show their versions (Fable 5.1, Opus 5.5, Sonnet 5.5, Haiku 4.5), read from Claude Code; new CEOs use Fable.
 - **Updates itself** from this repository's releases.
 - **Important moments reach you anywhere.** A pop-up appears on whichever screen you're on. When the window is in the background, you also get a desktop notification and the taskbar flashes.
@@ -60,11 +68,10 @@ A software company built from Claude Code agents. You open a project and tell th
 - **Delivery.** When the project is done, the CEO hands it over with test steps, the run command and the address. Your feedback goes back to the CEO as work.
 - **Everything else from 0.0.1:**
   - per-project memory under `.arnorg/`;
-  - a git worktree per agent; only approved work that passes the quality gate reaches the main branch;
   - live audit with policies, interjection and stopping;
   - the Office, a live 2D view of the company;
   - a built-in VS Code workbench;
-  - local code intelligence;
+  - local code intelligence, with a graph of imports and of files that belong together in meaning;
   - a stall guard and period reports.
   
   Agent commits use your git identity; no Claude signature is added.
@@ -76,12 +83,15 @@ A software company built from Claude Code agents. You open a project and tell th
 |---|---|
 | First run | ![First run](docs/gorseller/en/ilk-kurulum.png) |
 | Office | ![Office](docs/gorseller/en/ofis.png) |
+| Shared work | ![Shared work](docs/gorseller/en/ortak-calisma.png) |
+| Images and files in the CEO chat | ![Images and files](docs/gorseller/en/ekler.png) |
 | Channels | ![Channels](docs/gorseller/en/kanallar.png) |
 | Showcase | ![Showcase](docs/gorseller/en/tanitim.png) |
 | Approvals | ![Approvals](docs/gorseller/en/onaylar.png) |
 | Intelligence | ![Intelligence](docs/gorseller/en/zeka.png) |
 | Open from GitHub | ![Open from GitHub](docs/gorseller/en/github.png) |
 | Team and agent panel | ![Team](docs/gorseller/en/ekip.png) |
+| Browser and project addresses | ![Browser](docs/gorseller/en/tarayici.png) |
 | Code intelligence | ![Code intelligence](docs/gorseller/en/kod-zekasi.png) |
 | Code (VS Code workbench) | ![Code](docs/gorseller/en/kod.png) |
 
@@ -121,13 +131,13 @@ Release packages are built on GitHub Actions for Windows and Linux and published
 Cutting a release (notes live in [`docs/surumler/`](docs/surumler)):
 
 ```bash
-npm run surum -- 0.0.7                 # root and all packages, lock file, ARNORG_SURUMU
-# write the notes to docs/surumler/v0.0.7.md and commit
-git tag -a v0.0.7 -m "ArnOrg 0.0.7"
-git push origin main v0.0.7            # surum.yml builds the packages and publishes the release
+npm run surum -- 0.0.8                 # root and all packages, lock file, ARNORG_SURUMU
+# write the notes to docs/surumler/v0.0.8.md and commit
+git tag -a v0.0.8 -m "ArnOrg 0.0.8"
+git push origin main v0.0.8            # surum.yml builds the packages and publishes the release
 ```
 
-Instead of pushing a tag you can run **Actions → Sürüm → Run workflow** on GitHub with `v0.0.7` in the `surum` field; the tag is placed on the latest commit of main. If the tag doesn't match the package versions, or the notes are missing, the workflow stops before packaging.
+Instead of pushing a tag you can run **Actions → Sürüm → Run workflow** on GitHub with `v0.0.8` in the `surum` field; the tag is placed on the latest commit of main. If the tag doesn't match the package versions, or the notes are missing, the workflow stops before packaging.
 
 The workflow publishes the release in this repository, which is also where installed apps look for updates. Windows packages are signed when the `WIN_IMZA` Actions variable and the signing provider's secrets are set (SSL.com eSigner, DigiCert KeyLocker or any other tool); otherwise they're published unsigned.
 
